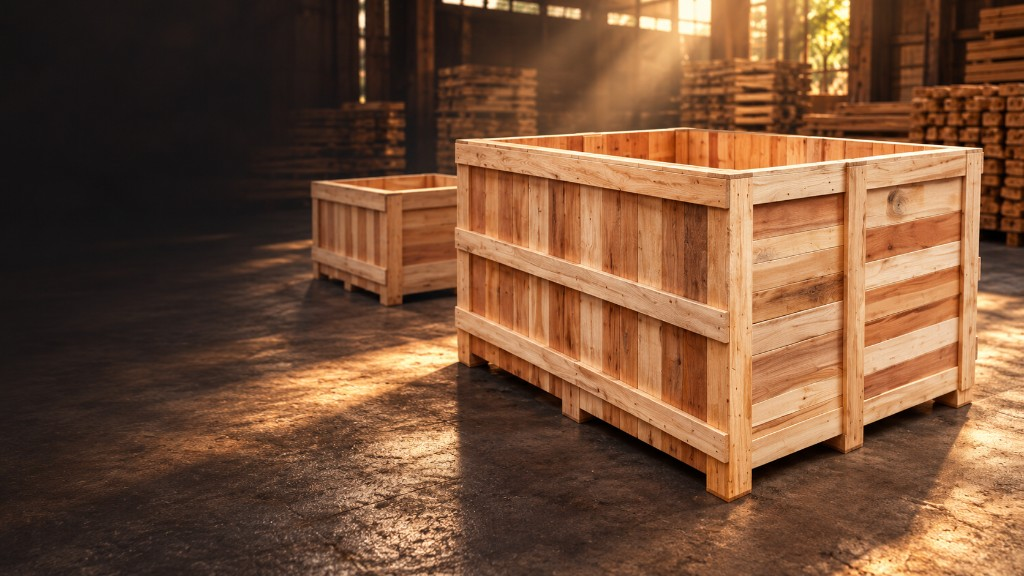
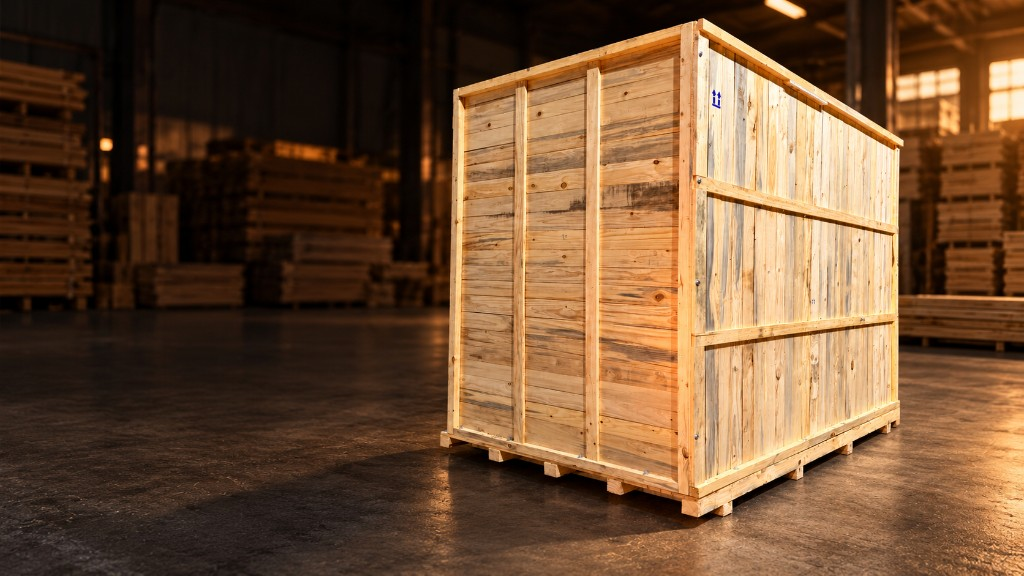
Update saddle, box, and crate photos so each product page shows the new hero and construction images.

diff --git a/app/products/product-data.ts b/app/products/product-data.ts
@@ -2,9 +2,9 @@ import type { ProductData } from "./product-detail";
 
 export const pallets: ProductData = {code:"02",title:"Wooden Pallets",accent:"Strong support for every load.",image:"/product-pallets.jpg",intro:"Shipping and warehousing platforms manufactured from quality timber for stable handling, efficient movement and dependable support.",overview:["Our wooden pallets are suitable for packing, material handling and warehousing across a wide range of industries. Durable construction and practical handling make them compatible with forklifts, storage systems and container movement.","Requirements differ by application, so pallets are available in standard as well as customized specifications. Construction can be aligned with load geometry, entry direction, handling pattern and destination."],types:[{title:"Stringer Pallet",text:"A practical construction supported by longitudinal stringers, suitable for common warehouse and transport handling."},{title:"Block Pallet",text:"A robust block-supported platform that can support flexible forklift or pallet-jack entry configurations."},{title:"Perimeter-base Pallet",text:"A base layout with added perimeter support for stable stacking, movement and load distribution."}],specs:[{label:"Overall dimensions",value:"Built to cargo footprint, storage arrangement and container plan."},{label:"Entry configuration",value:"Two-way or four-way handling, selected around equipment access."},{label:"Timber selection",value:"Local wood, hardwood or pinewood depending on use and destination."},{label:"Deck & base layout",value:"Board spacing, stringer/block arrangement and reinforcement as required."},{label:"Export readiness",value:"Pinewood and treatment-compatible options can be discussed for export use."}],applications:["Warehousing","Forklift handling","Container loading","Machinery movement","Drums & bags","Cartons","Engineering goods","Export cargo"],benefits:[{title:"Stable handling",text:"A structured base helps cargo move safely through loading, storage and dispatch."},{title:"Custom footprint",text:"Dimensions and construction can be aligned to the product and available space."},{title:"Operational efficiency",text:"Palletization improves forklift compatibility, stacking and container planning."}],next:{label:"Wooden Boxes",href:"/products/wooden-boxes"},typesImage:{src:"/pallet-construction.jpg",alt:"Wooden block pallet on a warehouse floor with stacked pallets in the background"}};
 
-export const boxes: ProductData = {code:"03",title:"Seaworthy Wooden Boxes",accent:"Full protection packaging.",image:"/wooden-boxes-hero.jpg",intro:"Closed wooden packaging designed to protect machinery, equipment and valuable items during storage, handling and transportation.",overview:["Wooden boxes create an enclosed protective shell around sensitive, costly or heavy cargo. They are well suited to interstate and export movement where handling pressure, dust, contact and rough transit conditions need to be considered.","Construction may combine solid timber, plywood sheets and reinforced wooden framing. The right solution depends on cargo sensitivity, lifting method, exposure, route and required level of enclosure."],types:[{title:"Solid Wooden Box",text:"Timber-board construction offering strong enclosed protection for machinery, equipment and valuable industrial items."},{title:"Plywood Box",text:"A lighter enclosed solution using quality plywood sheets over a supportive wooden frame."},{title:"Plywood Bolting Box",text:"A framed and bolted format that supports firm assembly and practical access where required."},{title:"Export Wooden Box",text:"A destination-aware construction using suitable timber and protective packing for international movement."}],specs:[{label:"Internal clearance",value:"Sized around cargo dimensions, protrusions, cushioning and access needs."},{label:"Panel construction",value:"Solid timber or plywood skin with a wooden structural frame."},{label:"Base & lifting",value:"Skid, pallet or forklift-ready base planned around handling equipment."},{label:"Internal restraint",value:"Blocking, bracing, bolting and cushioning selected for movement control."},{label:"Barrier protection",value:"Tarpaulin, stretch film, bubble sheet or moisture-control material as needed."}],applications:["Sensitive machinery","Electrical equipment","Industrial components","Valuable goods","Interstate transport","Export shipments","Storage protection","Heavy equipment"],benefits:[{title:"Complete enclosure",text:"Closed panels help shield the cargo from contact, dust and handling exposure."},{title:"Reinforced structure",text:"Framing and bracing can be adjusted around weight, shape and transit conditions."},{title:"Protection layers",text:"Compatible with cushioning, moisture control, wrapping and internal restraints."}],next:{label:"Wooden Crates",href:"/products/wooden-crates"},typesImage:{src:"/box-construction.jpg",alt:"Open-top timber export crate with vertical boards and a pallet base in a warehouse"}};
+export const boxes: ProductData = {code:"03",title:"Seaworthy Wooden Boxes",accent:"Full protection packaging.",image:"/wooden-boxes-hero.jpg",intro:"Closed wooden packaging designed to protect machinery, equipment and valuable items during storage, handling and transportation.",overview:["Wooden boxes create an enclosed protective shell around sensitive, costly or heavy cargo. They are well suited to interstate and export movement where handling pressure, dust, contact and rough transit conditions need to be considered.","Construction may combine solid timber, plywood sheets and reinforced wooden framing. The right solution depends on cargo sensitivity, lifting method, exposure, route and required level of enclosure."],types:[{title:"Solid Wooden Box",text:"Timber-board construction offering strong enclosed protection for machinery, equipment and valuable industrial items."},{title:"Plywood Box",text:"A lighter enclosed solution using quality plywood sheets over a supportive wooden frame."},{title:"Plywood Bolting Box",text:"A framed and bolted format that supports firm assembly and practical access where required."},{title:"Export Wooden Box",text:"A destination-aware construction using suitable timber and protective packing for international movement."}],specs:[{label:"Internal clearance",value:"Sized around cargo dimensions, protrusions, cushioning and access needs."},{label:"Panel construction",value:"Solid timber or plywood skin with a wooden structural frame."},{label:"Base & lifting",value:"Skid, pallet or forklift-ready base planned around handling equipment."},{label:"Internal restraint",value:"Blocking, bracing, bolting and cushioning selected for movement control."},{label:"Barrier protection",value:"Tarpaulin, stretch film, bubble sheet or moisture-control material as needed."}],applications:["Sensitive machinery","Electrical equipment","Industrial components","Valuable goods","Interstate transport","Export shipments","Storage protection","Heavy equipment"],benefits:[{title:"Complete enclosure",text:"Closed panels help shield the cargo from contact, dust and handling exposure."},{title:"Reinforced structure",text:"Framing and bracing can be adjusted around weight, shape and transit conditions."},{title:"Protection layers",text:"Compatible with cushioning, moisture control, wrapping and internal restraints."}],next:{label:"Wooden Crates",href:"/products/wooden-crates"},typesImage:{src:"/seaworthy-box-construction.jpg",alt:"Closed pine shipping box with horizontal battens and a pallet base in a timber workshop"}};
 
-export const crates: ProductData = {code:"04",title:"Wooden Crates",accent:"Open strength. Flexible handling.",image:"/wooden-crates-hero.jpg",intro:"Versatile slatted and reinforced structures for oversized equipment, irregular shapes, ventilation and efficient loading or unloading.",overview:["Wooden crates balance structural protection with lower material weight and easier visual access. Ordinary local-wood constructions are durable and economical for general packaging, while pinewood is lightweight, flexible and suitable for export-oriented requirements.","Heavy-duty crates are preferred for large machinery and irregular loads where robust bases, reinforced frames and easier loading or unloading are important."],types:[{title:"Ordinary Wooden Crate",text:"Economical local hardwood or softwood construction suited to general industrial packaging."},{title:"Pinewood Crate",text:"Lightweight, strong and treatment-compatible construction frequently selected for export movement."},{title:"Palletized Crate",text:"Crate protection integrated with a handling-ready pallet base for easier warehouse movement."},{title:"Heavy-duty Crate",text:"Reinforced construction for oversized equipment, demanding handling and irregular cargo shapes."},{title:"Custom-size Crate",text:"Built around the cargo footprint, support points and route-specific requirements."}],specs:[{label:"Cargo geometry",value:"Length, width, height, shape and centre-of-gravity inputs."},{label:"Frame spacing",value:"Slat and member spacing selected around protection and access requirements."},{label:"Base construction",value:"Skid, pallet or reinforced base according to weight and lifting points."},{label:"Bracing pattern",value:"Diagonal and cross bracing added where greater rigidity is required."},{label:"Loading access",value:"Removable or open sections can be discussed for practical placement and securing."}],applications:["Oversized machinery","Irregular equipment","Engineering assemblies","Pharma machinery","Logistics movement","Export cargo","Ventilated packing","On-site packing"],benefits:[{title:"Lower material weight",text:"Open-slatted construction offers protection without fully enclosing every surface."},{title:"Easy loading",text:"Flexible panels and framing support practical loading, unloading and inspection."},{title:"Heavy-duty options",text:"Base, frame and bracing can be strengthened for demanding industrial cargo."}],next:{label:"Solid Wooden Box",href:"/products/solid-wooden-box"},typesImage:{src:"/open-slat-crate.jpg",alt:"Open slatted timber crate with horizontal boards and a pallet base in a warehouse"}};
+export const crates: ProductData = {code:"04",title:"Wooden Crates",accent:"Open strength. Flexible handling.",image:"/wooden-crates-hero.jpg",intro:"Versatile slatted and reinforced structures for oversized equipment, irregular shapes, ventilation and efficient loading or unloading.",overview:["Wooden crates balance structural protection with lower material weight and easier visual access. Ordinary local-wood constructions are durable and economical for general packaging, while pinewood is lightweight, flexible and suitable for export-oriented requirements.","Heavy-duty crates are preferred for large machinery and irregular loads where robust bases, reinforced frames and easier loading or unloading are important."],types:[{title:"Ordinary Wooden Crate",text:"Economical local hardwood or softwood construction suited to general industrial packaging."},{title:"Pinewood Crate",text:"Lightweight, strong and treatment-compatible construction frequently selected for export movement."},{title:"Palletized Crate",text:"Crate protection integrated with a handling-ready pallet base for easier warehouse movement."},{title:"Heavy-duty Crate",text:"Reinforced construction for oversized equipment, demanding handling and irregular cargo shapes."},{title:"Custom-size Crate",text:"Built around the cargo footprint, support points and route-specific requirements."}],specs:[{label:"Cargo geometry",value:"Length, width, height, shape and centre-of-gravity inputs."},{label:"Frame spacing",value:"Slat and member spacing selected around protection and access requirements."},{label:"Base construction",value:"Skid, pallet or reinforced base according to weight and lifting points."},{label:"Bracing pattern",value:"Diagonal and cross bracing added where greater rigidity is required."},{label:"Loading access",value:"Removable or open sections can be discussed for practical placement and securing."}],applications:["Oversized machinery","Irregular equipment","Engineering assemblies","Pharma machinery","Logistics movement","Export cargo","Ventilated packing","On-site packing"],benefits:[{title:"Lower material weight",text:"Open-slatted construction offers protection without fully enclosing every surface."},{title:"Easy loading",text:"Flexible panels and framing support practical loading, unloading and inspection."},{title:"Heavy-duty options",text:"Base, frame and bracing can be strengthened for demanding industrial cargo."}],next:{label:"Solid Wooden Box",href:"/products/solid-wooden-box"},typesImage:{src:"/crate-construction.jpg",alt:"Open timber crate lined with blue sheeting and a pallet base in a workshop"}};
 
 export const cases: ProductData = {code:"04",title:"Wooden Cases",accent:"Secure by design.",image:"/product-range.jpg",intro:"Closed, framed packaging built for secure movement of sensitive, costly or heavy machinery across demanding routes.",overview:["Wooden cases are engineered as secure enclosed structures for cargo that needs dependable protection and controlled movement. They combine a strong base, framed walls and closed panels to withstand pressure and rough transit conditions.","Cases can be paired with internal blocking, bolting, wrapping, moisture-control material, lashing and container stuffing support for an end-to-end packing solution."],types:[{title:"Domestic Wooden Case",text:"A secure enclosed case for storage, local movement and interstate transport."},{title:"Export Pine Case",text:"An export-oriented framed case using lightweight, treatment-compatible pinewood."},{title:"Hardwood Packing Case",text:"A strong timber construction for demanding handling and heavier industrial goods."},{title:"Custom Machinery Case",text:"Designed around equipment geometry, lifting points, supports and access requirements."}],specs:[{label:"Case envelope",value:"Internal dimensions planned with clearance for wrapping, supports and restraints."},{label:"Structural frame",value:"Member size, spacing and reinforcement selected around the cargo."},{label:"Closure method",value:"Nailed, screwed or bolted access based on packing and unpacking requirements."},{label:"Internal securing",value:"Blocking, bolting, saddles, bracing and lashing to limit movement."},{label:"Transit protection",value:"Protective film, cushioning, silica gel and tarpaulin options as appropriate."}],applications:["Precision machinery","High-value equipment","Heavy components","Long-distance transit","Export consignments","Sensitive assemblies","Chemical equipment","Engineering cargo"],benefits:[{title:"Maximum coverage",text:"A closed framed structure gives cargo a controlled protective environment."},{title:"Movement control",text:"Internal supports and restraints can be positioned around critical load points."},{title:"End-to-end support",text:"Available with on-site packing, lashing, sealing and container stuffing services."}]};
 
